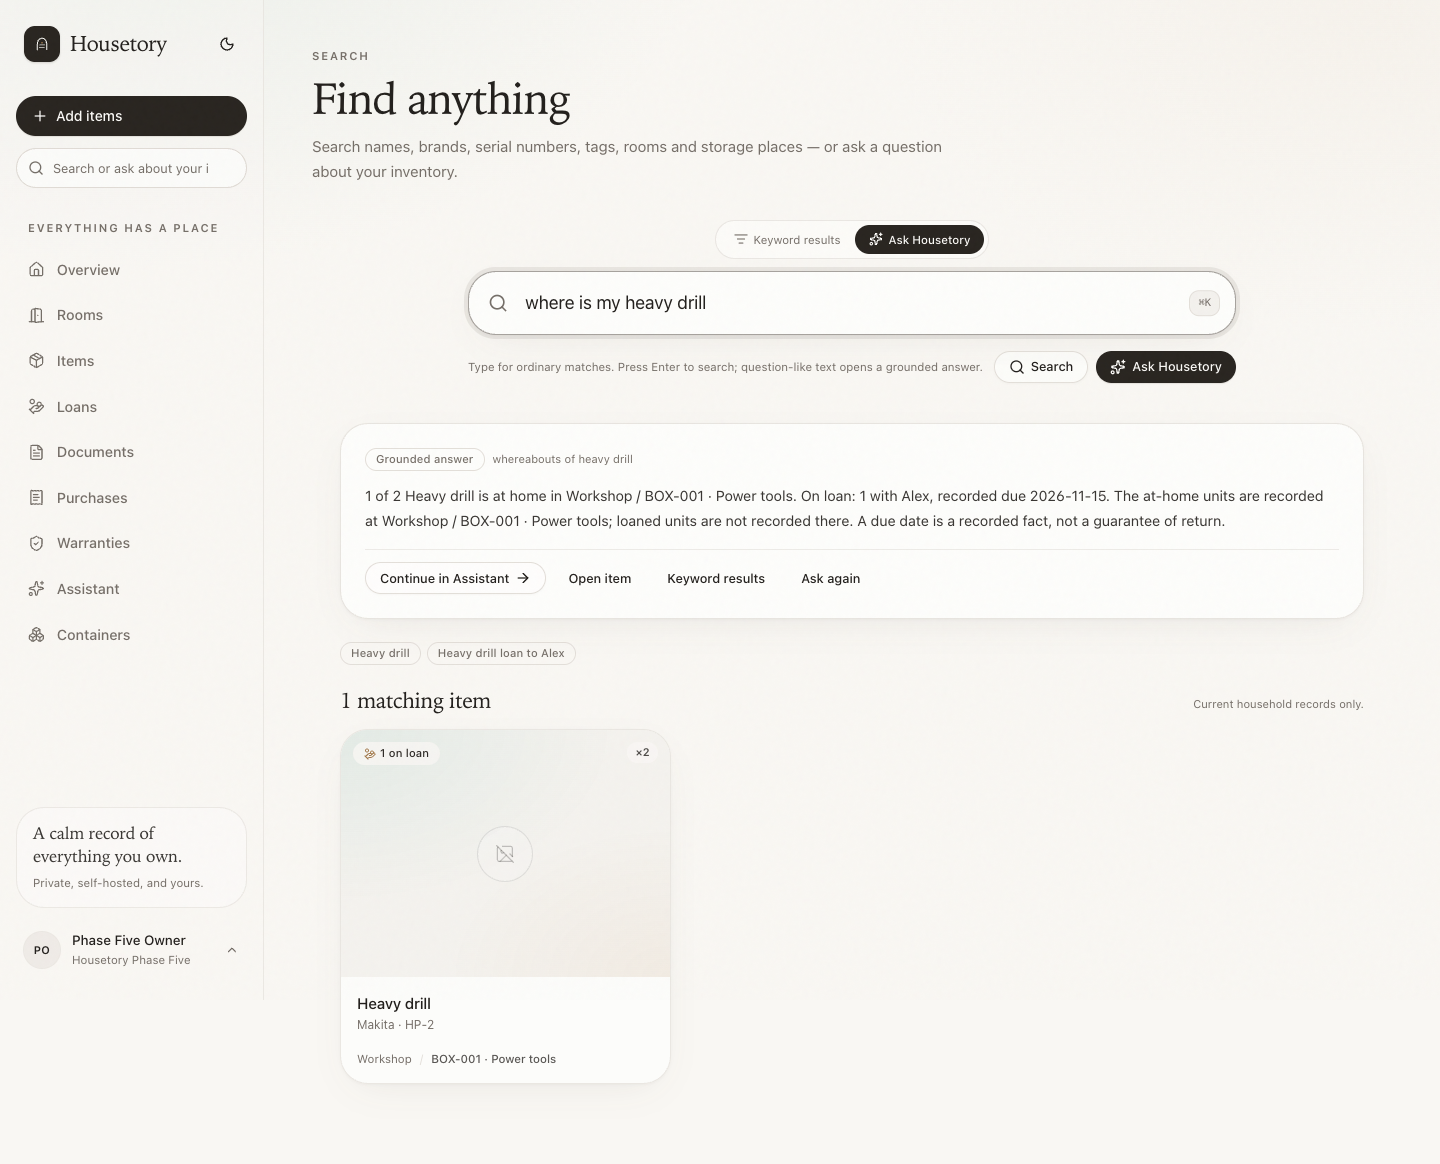
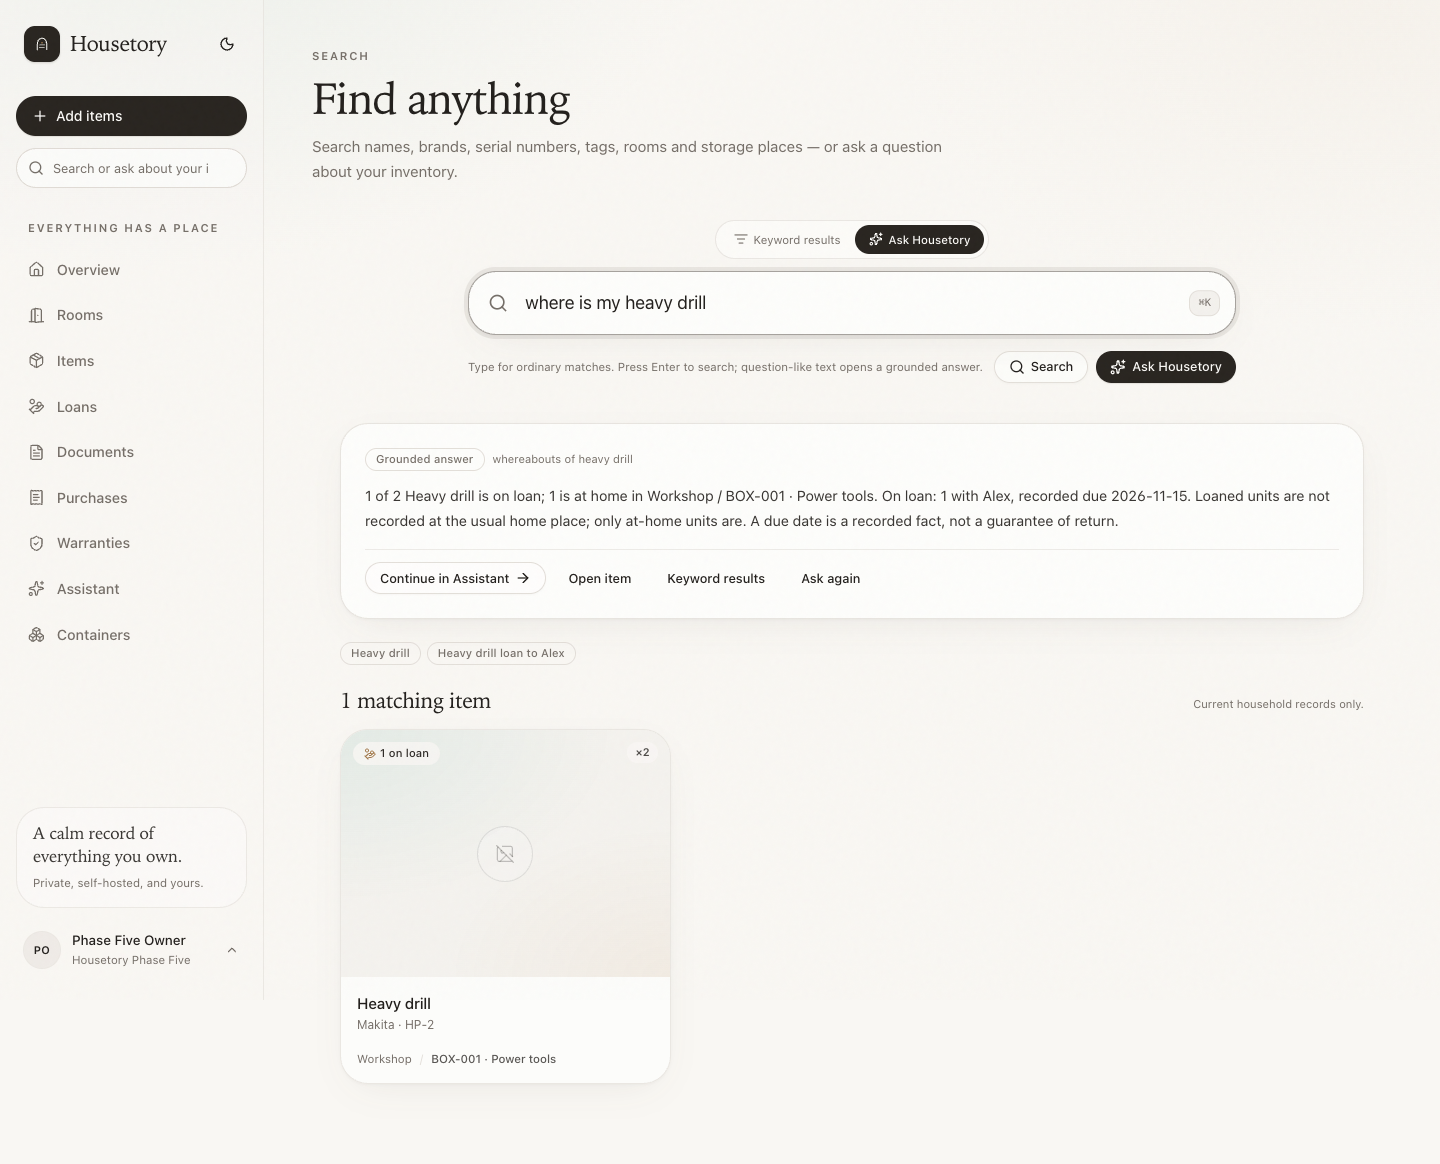
fix: report loan whereabouts before usual home location

Changed region(s): [[0.25, 0.4021, 0.9062, 0.4639]]

diff --git a/apps/web/e2e/single-home-polish.spec.ts b/apps/web/e2e/single-home-polish.spec.ts
@@ -89,7 +89,7 @@ test("unified search answers the heavy drill loan question without claiming it i
   await expect(page.getByText(/at home in Workshop/).first()).toBeVisible();
   await expect(page.getByText(/On loan: 1 with Alex/).first()).toBeVisible();
   await expect(page.getByText(new RegExp(`recorded due ${dueOn}`)).first()).toBeVisible();
-  await expect(page.getByText(/loaned units are not recorded there/).first()).toBeVisible();
+  await expect(page.getByText(/Loaned units are not recorded at the usual home/).first()).toBeVisible();
   await expect(page.getByText(/BOX-\d+ · Power tools/).first()).toBeVisible();
 
   await page.getByRole("link", { name: /Continue in Assistant/ }).click();

diff --git a/services/api/housetory_api/services/ai_tools.py b/services/api/housetory_api/services/ai_tools.py
@@ -1193,8 +1193,9 @@ def tool_locate_item(
     if on_loan > 0:
         if at_home > 0:
             parts.append(
-                f"{at_home} of {owned} {item.name} "
-                f"{'is' if at_home == 1 else 'are'} at home in {home}."
+                f"{on_loan} of {owned} {item.name} "
+                f"{'is' if on_loan == 1 else 'are'} on loan; "
+                f"{at_home} {'is' if at_home == 1 else 'are'} at home in {home}."
             )
         else:
             parts.append(
@@ -1219,7 +1220,7 @@ def tool_locate_item(
             parts.append(f"The usual home is {home}, but the loaned units are not recorded there.")
         else:
             parts.append(
-                f"The at-home units are recorded at {home}; loaned units are not recorded there."
+                "Loaned units are not recorded at the usual home place; only at-home units are."
             )
         parts.append("A due date is a recorded fact, not a guarantee of return.")
     else:

diff --git a/services/api/tests/test_single_home_polish.py b/services/api/tests/test_single_home_polish.py
@@ -151,10 +151,10 @@ def test_exact_heavy_drill_whereabouts_is_loan_first_and_quantity_accurate(owner
     assert whereabouts["loans"][0]["borrower_name"] == "Alex"
     assert whereabouts["loans"][0]["outstanding_quantity"] == 2
     assert whereabouts["loans"][0]["due_on"] == loan["due_on"]
-    assert "1 of 3" in body["answer"]
-    assert "at home in Workshop" in body["answer"]
+    assert "2 of 3 Heavy drill are on loan" in body["answer"]
+    assert "1 is at home in Workshop" in body["answer"]
     assert "On loan: 2 with Alex" in body["answer"]
-    assert body["answer"].index("at home") < body["answer"].index("On loan")
+    assert body["answer"].index("on loan") < body["answer"].index("at home")
     assert body["items"][0]["on_loan_quantity"] == 2
     assert body["references"][0]["type"] == "item"
     assert any(reference["type"] == "loan" for reference in body["references"])
